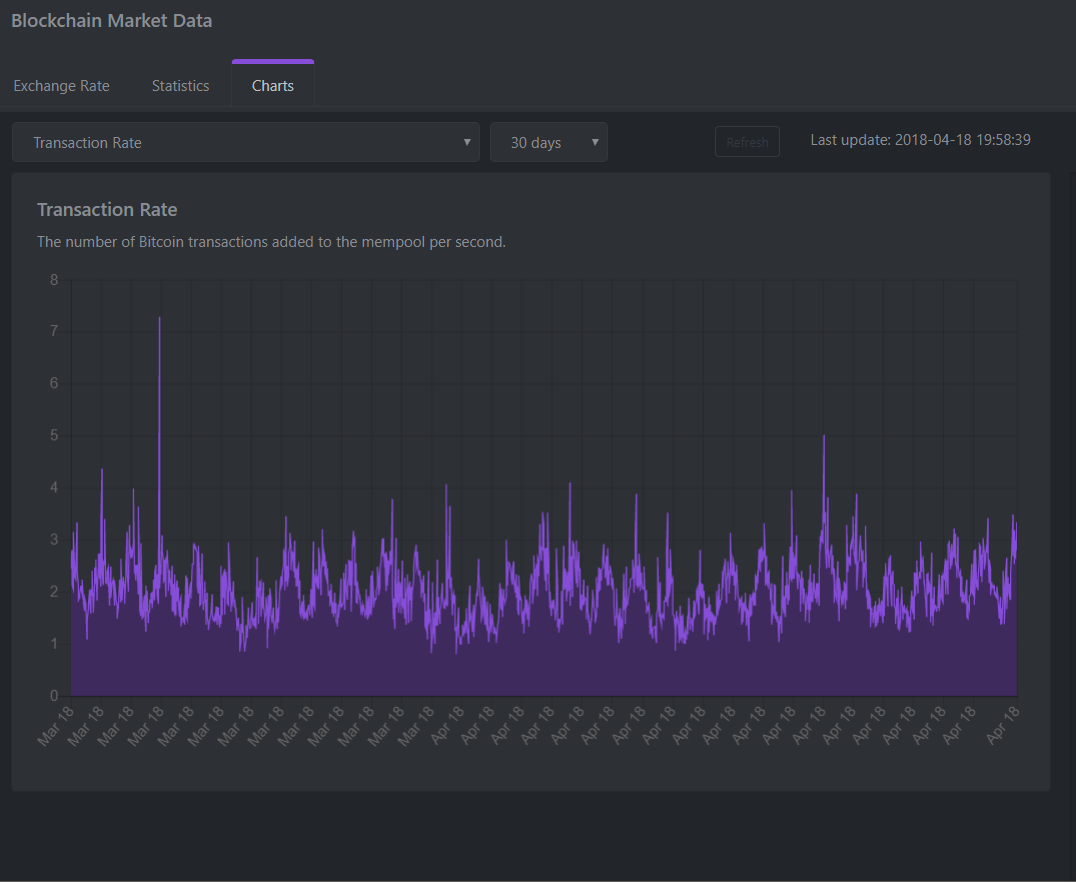
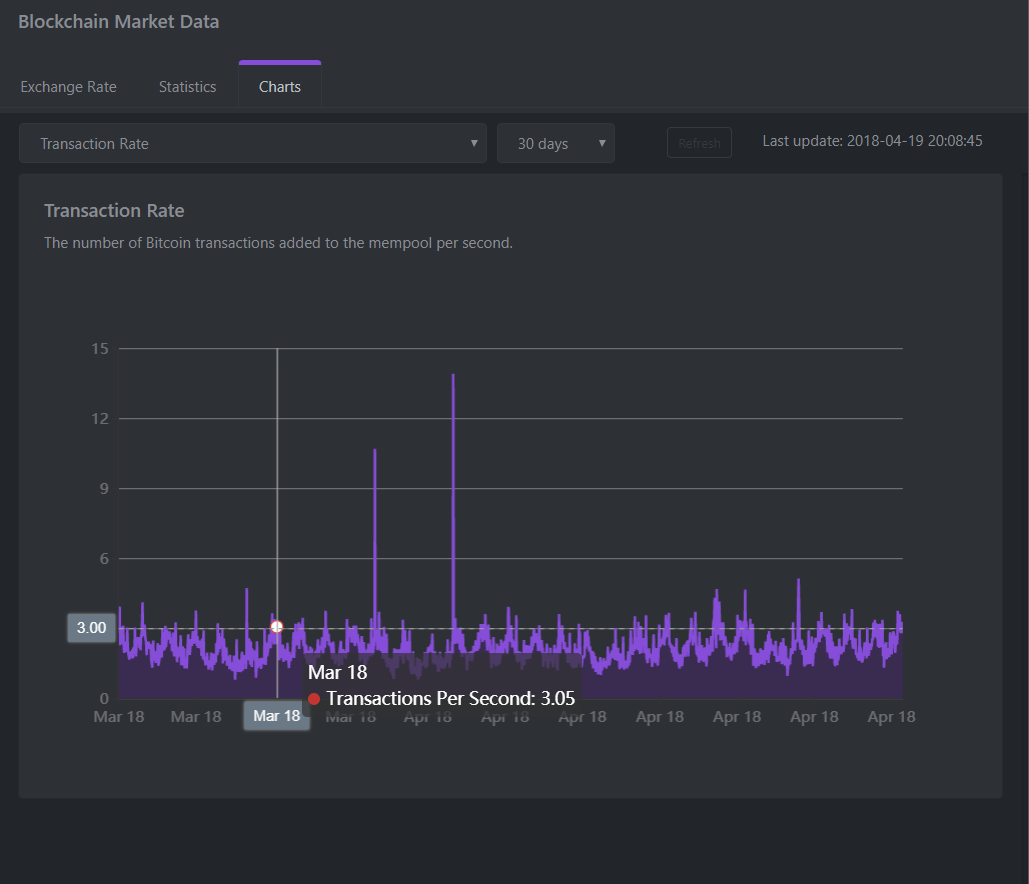
feat: use echart js instead chart js

diff --git a/src/app/statistics/reducers/index.reducer.ts b/src/app/statistics/reducers/index.reducer.ts
@@ -48,33 +48,55 @@ const getChartsData = createSelector(chartsNode, (s) => {
     return {
       name: s.response['name'],
       description: s.response['description'],
-      labels: v.map((d) => datePipe.transform(d['x'] * 1000, 'MMM yy')),
-      type: 'line',
-      datasets: [
-        {
-          label: s.response['unit'],
-          data: v.map((d) => d['y'])
-        }
-      ],
       options: {
-        responsive: true,
-        animation: {
-          duration: 0
+        textStyle: {
+          color: 'rgba(255, 255, 255, 0.3)'
         },
-        hover: {
-            animationDuration: 0
-        },
-        responsiveAnimationDuration: 0,
-        elements: {
-          line: {
-            borderWidth: 1,
-            fill: true,
-            tension: 0
-          },
-          point: {
-            radius: 0
+        tooltip: {
+          trigger: 'axis',
+          axisPointer: {
+              type: 'cross',
+              label: {
+                  backgroundColor: '#6a7985'
+              }
           }
-        }
+        },
+        xAxis: [
+          {
+            type: 'category',
+            data: v.map((d) => datePipe.transform(d['x'] * 1000, 'MMM yy')),
+            boundaryGap: false
+          },
+        ],
+        yAxis: [
+          {
+            type: 'value',
+            splitLine: {
+              lineStyle: {
+                color: 'rgba(255, 255, 255, 0.3)'
+              }
+            }
+          },
+        ],
+        grid: {
+          borderColor: 'rgba(255, 255, 255, 0.3)',
+          left: '8%',
+          right: '8%'
+        },
+        series: [
+          {
+            name: s.response['unit'],
+            type: 'line',
+            data: v.map((d) => d['y']),
+            showSymbol: false,
+            lineStyle: {
+              color: '#864DD9'
+            },
+            areaStyle: {
+              color: '#3f2a5d'
+            }
+          }
+        ]
       }
     };
   }

diff --git a/src/app/statistics/statistics.type.ts b/src/app/statistics/statistics.type.ts
@@ -22,34 +22,54 @@ export interface StatisticsInfo {
 }
 
 export interface ChartOptions {
-  responsive: boolean;
-  animation: {
-    duration: number;
+  textStyle: {
+    color: string;
   };
-  hover: {
-      animationDuration: number;
-  };
-  responsiveAnimationDuration: number;
-  elements: {
-    line: {
-      fill: boolean;
-      tension: number;
+  tooltip: {
+    trigger: string;
+    axisPointer: {
+        type: string;
+        label: {
+            backgroundColor: string;
+        };
     };
   };
+  xAxis: {
+    type: string;
+    data: any[];
+    boundaryGap: boolean;
+  }[];
+  yAxis: {
+    type: string;
+    splitLine: {
+      lineStyle: {
+        color: string;
+      };
+    };
+  }[];
+  grid: {
+    borderColor: string;
+    left: string;
+    right: string;
+  };
+  series: {
+    name: string;
+    type: string;
+    data: any[];
+    showSymbol: boolean;
+    lineStyle: {
+      color: string;
+    };
+    areaStyle: {
+      color: string;
+    };
+  }[];
 }
 
 export interface Chart {
   name: string;
   description: string;
-  datasets: ChartDataset[];
-  labels: string[];
-  type: string;
   options: ChartOptions;
-}
-
-export interface ChartDataset {
-  label: string;
-  data: number[];
 }
 
 export interface ChartQuery {

diff --git a/src/app/statistics/views/charts.view.html b/src/app/statistics/views/charts.view.html
@@ -86,16 +86,9 @@
   <div class="card">
       <div class="card-body">
           <ng-container *ngIf="vModel.data">
-              <h5>{{ vModel.data.name }}</h5>
-              <p>{{ vModel.data.description }}</p>
-              <canvas baseChart class="c-chart"
-              [datasets]="vModel.data.datasets"
-              [labels]="vModel.data.labels"
-              [options]="vModel.data.options"
-              [legend]="false"
-              [colors]="lineChartColors"
-              [chartType]="vModel.data.type"
-              ></canvas>
+            <h5>{{ vModel.data.name }}</h5>
+            <p>{{ vModel.data.description }}</p>
+            <div echarts [options]="vModel.data.options"></div>
           </ng-container>
       </div>
     </div>

diff --git a/src/app/statistics/statistics.module.ts b/src/app/statistics/statistics.module.ts
@@ -1,8 +1,7 @@
 import { NgModule, ModuleWithProviders } from '@angular/core';
-import { BrowserAnimationsModule } from '@angular/platform-browser/animations';
 import { CommonModule } from '@angular/common';
 import { FormsModule } from '@angular/forms';
-import { ChartsModule } from 'ng2-charts/ng2-charts';
+import { NgxEchartsModule } from 'ngx-echarts';
 
 import { StoreModule } from '@ngrx/store';
 
@@ -17,8 +16,7 @@ import { ChartsViewComponent } from './views/charts.view';
   imports: [
     CommonModule,
     FormsModule,
-    BrowserAnimationsModule,
-    ChartsModule,
+    NgxEchartsModule,
     StoreModule.forFeature('statistics', reducers),
   ],
   declarations: [

diff --git a/src/app/statistics/views/charts.view.ts b/src/app/statistics/views/charts.view.ts
@@ -20,14 +20,4 @@ export class ChartsViewComponent {
   @Output() chartName = new EventEmitter<string>();
   @Output() refresh = new EventEmitter<void>();
 
-  lineChartColors = [
-    {
-      backgroundColor: '#3f2a5d',
-      borderColor: '#864DD9',
-      pointBackgroundColor: 'rgba(77,83,96,1)',
-      pointBorderColor: '#fff',
-      pointHoverBackgroundColor: '#fff',
-      pointHoverBorderColor: 'rgba(77,83,96,1)'
-    }
-  ];
 }

diff --git a/src/polyfills.ts b/src/polyfills.ts
@@ -64,4 +64,3 @@ import 'zone.js/dist/zone';  // Included with Angular CLI.
 /***************************************************************************************************
  * APPLICATION IMPORTS
  */
-import 'chart.js/src/chart.js';
